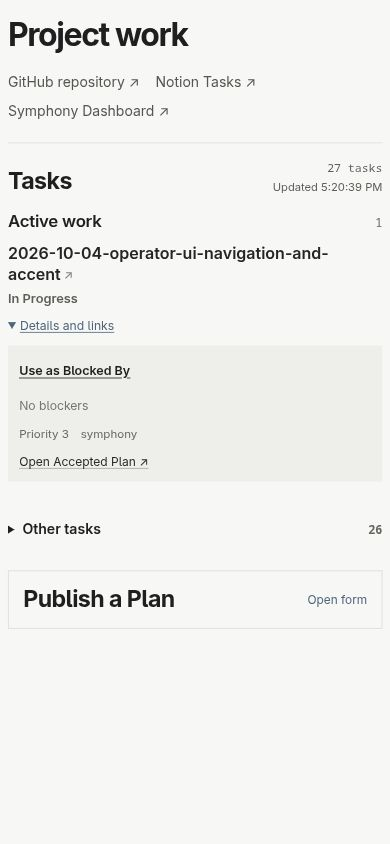
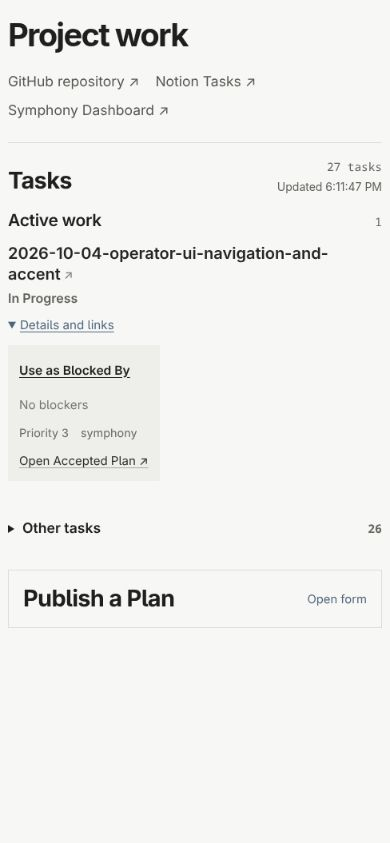
Constrain expanded Operator task details

diff --git a/operator/ui/src/style.css b/operator/ui/src/style.css
@@ -51,7 +51,7 @@ h2 { margin-bottom: 0; font-size: 1.45rem; line-height: 1.2; letter-spacing: -.0
 .task-details > summary { width: fit-content; color: #555550; font-size: .76rem; cursor: pointer; }
 .task-details > summary:hover { color: var(--accent); text-decoration: underline; text-underline-offset: .2em; }
 .task-details[open] { margin-top: .65rem; }
-.task-details-content { margin-top: .65rem; padding: .85rem .95rem; background: #efefec; }
+.task-details-content { width: fit-content; max-width: 100%; margin-top: .65rem; padding: .85rem .95rem; background: #efefec; }
 .task-blocker-action { margin: 0 0 .7rem; }
 .blocker-toggle { display: inline-flex; min-height: 2rem; align-items: center; color: #333330; font-size: .78rem; font-weight: 600; text-decoration-color: #aaa9a3; }
 .blocker-toggle:hover:not(:disabled) { color: var(--accent); }
